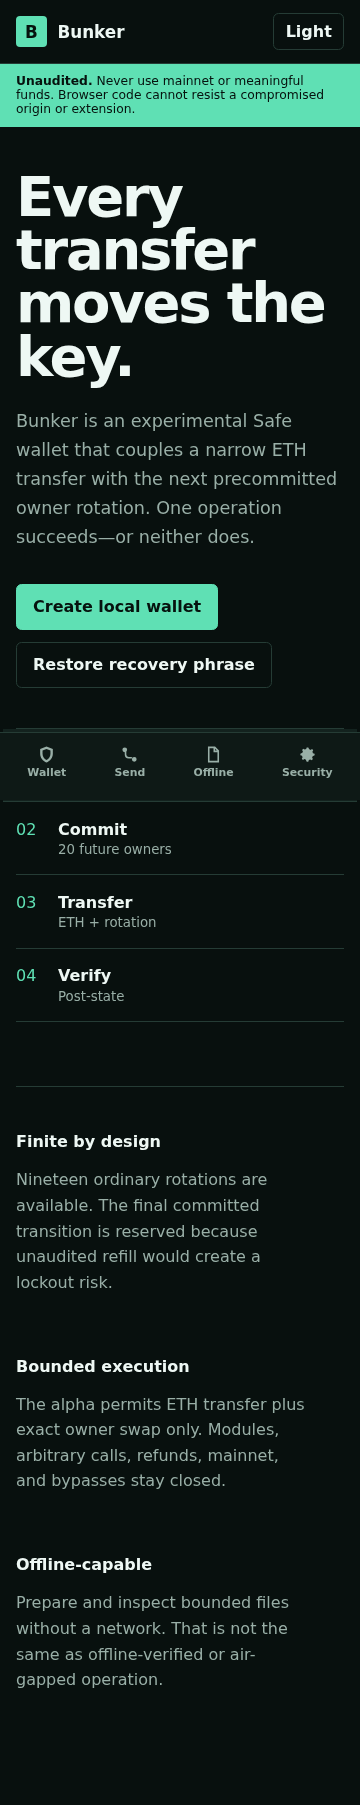
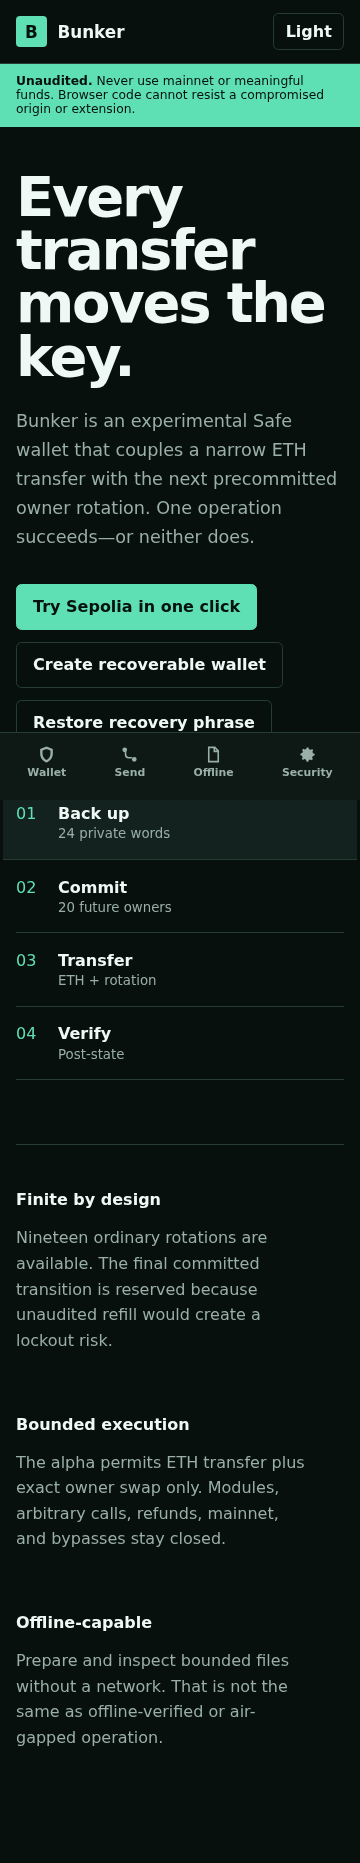
Add one-click Sepolia burner preview

diff --git a/apps/web/src/styles.css b/apps/web/src/styles.css
@@ -1,1 +1,1 @@
-:root{font-family:ui-sans-serif,-apple-system,BlinkMacSystemFont,"Segoe UI",sans-serif;font-synthesis:none;color-scheme:dark;background:#08100e}*{box-sizing:border-box}body{margin:0}button,input,textarea{font:inherit}.app{--bg:#08100e;--surface:#0e1916;--raised:#13221e;--line:#253c35;--text:#eef8f4;--muted:#99afa7;--accent:#5fe0b4;--focus:#5fe0b4;--ink:#06120e;min-height:100vh;background:var(--bg);color:var(--text);transition:background .2s,color .2s}.app.light{--bg:#f3f7f5;--surface:#fff;--raised:#e8f0ed;--line:#c5d3ce;--text:#11201b;--muted:#586b64;--accent:#087f63;--focus:#00634c;--ink:#fff}::selection{background:var(--accent);color:var(--ink)}button{border:1px solid var(--line);background:transparent;color:var(--text);padding:.78rem 1rem;border-radius:.35rem;cursor:pointer;font-weight:650}button:hover:not(:disabled){border-color:var(--accent)}button:focus-visible,input:focus-visible,textarea:focus-visible{outline:3px solid var(--focus);outline-offset:2px}button:disabled{cursor:not-allowed;opacity:.48}.primary{background:var(--accent);border-color:var(--accent);color:var(--ink)}header{height:74px;display:flex;align-items:center;padding:0 clamp(1rem,4vw,4rem);border-bottom:1px solid var(--line);gap:1.5rem}.wordmark{font-size:1.05rem;border:0;padding:0;display:flex;align-items:center;gap:.65rem}.wordmark span{display:grid;place-items:center;width:31px;height:31px;background:var(--accent);color:var(--ink);font-weight:900;border-radius:.25rem}.alpha{font-size:.76rem;text-transform:uppercase;letter-spacing:.12em;color:var(--muted)}.theme{margin-left:auto;padding:.5rem .7rem}.warning{background:var(--accent);color:var(--ink);padding:.65rem clamp(1rem,4vw,4rem);font-size:.88rem}.layout{display:grid;grid-template-columns:180px 1fr;min-height:calc(100vh - 180px)}nav{padding:2rem 1rem;border-right:1px solid var(--line);display:flex;flex-direction:column;gap:.3rem}nav button{border:0;display:flex;align-items:center;gap:.75rem;color:var(--muted);text-align:left}nav button.active{background:var(--raised);color:var(--text)}svg{width:19px;height:19px;fill:currentColor}main{padding:clamp(2rem,6vw,6.5rem);max-width:1250px;width:100%;margin:auto}.notice{border:1px solid var(--accent);padding:.9rem 1rem;margin:0 0 2rem;max-width:75ch}.hero{display:grid;grid-template-columns:minmax(0,1.25fr) minmax(270px,.75fr);gap:clamp(3rem,8vw,8rem);align-items:center;min-height:480px}.hero h1,.flow h1,.dashboard h1{font-size:clamp(2.7rem,6vw,5.7rem);line-height:.95;letter-spacing:-.04em;margin:.2rem 0 1.5rem;max-width:11ch}.hero p,.lead{color:var(--muted);font-size:1.1rem;line-height:1.65;max-width:65ch}.actions{display:flex;gap:.75rem;flex-wrap:wrap;margin-top:2rem}.route{border-top:1px solid var(--line)}.route div{display:grid;grid-template-columns:42px 1fr;border-bottom:1px solid var(--line);padding:1.1rem 0}.route span{grid-row:1/3;color:var(--accent);font-variant-numeric:tabular-nums}.route b{font-size:1rem}.route small{color:var(--muted);margin-top:.2rem}.route .done{background:var(--raised);margin:0 -.8rem;padding-left:.8rem;padding-right:.8rem}.plain-grid{display:grid;grid-template-columns:repeat(3,1fr);border-top:1px solid var(--line);margin-top:4rem}.plain-grid>div{padding:2rem 2rem 0 0}.plain-grid h2{font-size:1rem}.plain-grid p{color:var(--muted);line-height:1.6}.step{display:flex;gap:1rem;align-items:center;color:var(--muted);margin-bottom:2rem}.step span{border:1px solid var(--line);padding:.35rem .55rem;color:var(--accent);font-variant-numeric:tabular-nums}.flow{max-width:900px}.flow h1,.dashboard h1{font-size:clamp(2.5rem,5vw,4.8rem);max-width:14ch}.words{display:grid;grid-template-columns:repeat(4,1fr);gap:1px;background:var(--line);padding:1px;list-style:none;margin:2.5rem 0}.words li{background:var(--surface);padding:1rem;font-weight:700}.words span{color:var(--muted);display:block;font-size:.7rem;margin-bottom:.35rem}.check{display:flex;align-items:center;gap:.75rem;margin:1.5rem 0}.confirm{display:grid;grid-template-columns:repeat(3,1fr);gap:1rem;margin:2rem 0}label{display:grid;gap:.5rem;color:var(--muted);font-size:.85rem}input,textarea{background:var(--surface);color:var(--text);border:1px solid var(--line);border-radius:.25rem;padding:.85rem;width:100%}textarea{resize:vertical;font-family:ui-monospace,SFMono-Regular,Consolas,monospace;font-size:.82rem;line-height:1.5}.choice{display:grid;grid-template-columns:1fr 1fr;border:1px solid var(--line);margin:2rem 0}.choice>div{padding:2rem}.choice>div+div{border-left:1px solid var(--line)}.choice h2{margin-top:0}.choice h2 span{display:block;color:var(--accent);font-size:.7rem;text-transform:uppercase;letter-spacing:.1em;margin-top:.5rem}.choice p,.gate p,.unlock p{color:var(--muted);line-height:1.6}.choice button{margin-top:1.5rem}.identifier{border-top:1px solid var(--line);border-bottom:1px solid var(--line);padding:1.5rem 0}.identifier small{display:block;color:var(--muted);margin-bottom:.7rem}.identifier code{font-size:clamp(.9rem,2vw,1.4rem);overflow-wrap:anywhere;color:var(--accent)}.big-stat{display:flex;align-items:baseline;gap:1rem;margin:2.5rem 0}.big-stat strong{font-size:6rem;letter-spacing:-.07em}.big-stat span{color:var(--muted)}.state{display:grid;grid-template-columns:1fr 1fr;max-width:600px;margin-bottom:2rem}.state>*{padding:.8rem 0;border-bottom:1px solid var(--line)}.state span{color:var(--muted)}.blocked-list{display:grid;grid-template-columns:1fr 1fr;margin:2rem 0;border-top:1px solid var(--line)}.blocked-list p{margin:0;padding:1rem 0;border-bottom:1px solid var(--line)}.gates{margin:2rem 0}.gate{border-top:1px solid var(--line);padding:1.3rem 0}.gate>div{display:flex;justify-content:space-between;gap:1rem}.gate h2{font-size:1rem;margin:0}.gate span{color:var(--accent);font-size:.78rem;text-transform:uppercase;letter-spacing:.08em}.gate p{margin:.5rem 0 0;max-width:65ch}footer{border-top:1px solid var(--line);padding:1.5rem clamp(1rem,4vw,4rem);display:flex;justify-content:space-between;color:var(--muted);font-size:.78rem}.unlock{max-width:420px}@media(max-width:760px){header{height:64px}.alpha{display:none}.layout{display:block}nav{position:fixed;z-index:5;bottom:0;left:0;right:0;height:68px;background:var(--surface);border:0;border-top:1px solid var(--line);padding:.35rem;flex-direction:row;justify-content:space-around}nav button{font-size:.68rem;flex-direction:column;gap:.15rem;padding:.4rem}.warning{font-size:.77rem}.hero{grid-template-columns:1fr;gap:2.5rem;min-height:auto}.hero h1{font-size:3.5rem}.plain-grid{grid-template-columns:1fr}.words{grid-template-columns:repeat(3,1fr)}.confirm,.choice{grid-template-columns:1fr}.choice>div+div{border-left:0;border-top:1px solid var(--line)}main{padding:2.5rem 1rem 6rem}.big-stat strong{font-size:4.5rem}.blocked-list{grid-template-columns:1fr}footer{display:none}}@media(prefers-reduced-motion:reduce){*{scroll-behavior:auto!important;transition:none!important}}
+:root{font-family:ui-sans-serif,-apple-system,BlinkMacSystemFont,"Segoe UI",sans-serif;font-synthesis:none;color-scheme:dark;background:#08100e}*{box-sizing:border-box}body{margin:0}button,input,textarea{font:inherit}.app{--bg:#08100e;--surface:#0e1916;--raised:#13221e;--line:#253c35;--text:#eef8f4;--muted:#99afa7;--accent:#5fe0b4;--focus:#5fe0b4;--ink:#06120e;min-height:100vh;background:var(--bg);color:var(--text);transition:background .2s,color .2s}.app.light{--bg:#f3f7f5;--surface:#fff;--raised:#e8f0ed;--line:#c5d3ce;--text:#11201b;--muted:#586b64;--accent:#087f63;--focus:#00634c;--ink:#fff}::selection{background:var(--accent);color:var(--ink)}button{border:1px solid var(--line);background:transparent;color:var(--text);padding:.78rem 1rem;border-radius:.35rem;cursor:pointer;font-weight:650}button:hover:not(:disabled){border-color:var(--accent)}button:focus-visible,input:focus-visible,textarea:focus-visible{outline:3px solid var(--focus);outline-offset:2px}button:disabled{cursor:not-allowed;opacity:.48}.primary{background:var(--accent);border-color:var(--accent);color:var(--ink)}header{height:74px;display:flex;align-items:center;padding:0 clamp(1rem,4vw,4rem);border-bottom:1px solid var(--line);gap:1.5rem}.wordmark{font-size:1.05rem;border:0;padding:0;display:flex;align-items:center;gap:.65rem}.wordmark span{display:grid;place-items:center;width:31px;height:31px;background:var(--accent);color:var(--ink);font-weight:900;border-radius:.25rem}.alpha{font-size:.76rem;text-transform:uppercase;letter-spacing:.12em;color:var(--muted)}.theme{margin-left:auto;padding:.5rem .7rem}.warning{background:var(--accent);color:var(--ink);padding:.65rem clamp(1rem,4vw,4rem);font-size:.88rem}.layout{display:grid;grid-template-columns:180px 1fr;min-height:calc(100vh - 180px)}nav{padding:2rem 1rem;border-right:1px solid var(--line);display:flex;flex-direction:column;gap:.3rem}nav button{border:0;display:flex;align-items:center;gap:.75rem;color:var(--muted);text-align:left}nav button.active{background:var(--raised);color:var(--text)}svg{width:19px;height:19px;fill:currentColor}main{padding:clamp(2rem,6vw,6.5rem);max-width:1250px;width:100%;margin:auto}.notice{border:1px solid var(--accent);padding:.9rem 1rem;margin:0 0 2rem;max-width:75ch}.hero{display:grid;grid-template-columns:minmax(0,1.25fr) minmax(270px,.75fr);gap:clamp(3rem,8vw,8rem);align-items:center;min-height:480px}.hero h1,.flow h1,.dashboard h1{font-size:clamp(2.7rem,6vw,5.7rem);line-height:.95;letter-spacing:-.04em;margin:.2rem 0 1.5rem;max-width:11ch}.hero p,.lead{color:var(--muted);font-size:1.1rem;line-height:1.65;max-width:65ch}.actions{display:flex;gap:.75rem;flex-wrap:wrap;margin-top:2rem}.route{border-top:1px solid var(--line)}.route div{display:grid;grid-template-columns:42px 1fr;border-bottom:1px solid var(--line);padding:1.1rem 0}.route span{grid-row:1/3;color:var(--accent);font-variant-numeric:tabular-nums}.route b{font-size:1rem}.route small{color:var(--muted);margin-top:.2rem}.route .done{background:var(--raised);margin:0 -.8rem;padding-left:.8rem;padding-right:.8rem}.plain-grid{display:grid;grid-template-columns:repeat(3,1fr);border-top:1px solid var(--line);margin-top:4rem}.plain-grid>div{padding:2rem 2rem 0 0}.plain-grid h2{font-size:1rem}.plain-grid p{color:var(--muted);line-height:1.6}.step{display:flex;gap:1rem;align-items:center;color:var(--muted);margin-bottom:2rem}.step span{border:1px solid var(--line);padding:.35rem .55rem;color:var(--accent);font-variant-numeric:tabular-nums}.flow{max-width:900px}.flow h1,.dashboard h1{font-size:clamp(2.5rem,5vw,4.8rem);max-width:14ch}.words{display:grid;grid-template-columns:repeat(4,1fr);gap:1px;background:var(--line);padding:1px;list-style:none;margin:2.5rem 0}.words li{background:var(--surface);padding:1rem;font-weight:700}.words span{color:var(--muted);display:block;font-size:.7rem;margin-bottom:.35rem}.check{display:flex;align-items:center;gap:.75rem;margin:1.5rem 0}.confirm{display:grid;grid-template-columns:repeat(3,1fr);gap:1rem;margin:2rem 0}label{display:grid;gap:.5rem;color:var(--muted);font-size:.85rem}input,textarea{background:var(--surface);color:var(--text);border:1px solid var(--line);border-radius:.25rem;padding:.85rem;width:100%}textarea{resize:vertical;font-family:ui-monospace,SFMono-Regular,Consolas,monospace;font-size:.82rem;line-height:1.5}.choice{display:grid;grid-template-columns:1fr 1fr;border:1px solid var(--line);margin:2rem 0}.choice>div{padding:2rem}.choice>div+div{border-left:1px solid var(--line)}.choice h2{margin-top:0}.choice h2 span{display:block;color:var(--accent);font-size:.7rem;text-transform:uppercase;letter-spacing:.1em;margin-top:.5rem}.choice p,.gate p,.unlock p{color:var(--muted);line-height:1.6}.choice button{margin-top:1.5rem}.identifier{border-top:1px solid var(--line);border-bottom:1px solid var(--line);padding:1.5rem 0}.identifier small{display:block;color:var(--muted);margin-bottom:.7rem}.identifier code{font-size:clamp(.9rem,2vw,1.4rem);overflow-wrap:anywhere;color:var(--accent)}.big-stat{display:flex;align-items:baseline;gap:1rem;margin:2.5rem 0}.big-stat strong{font-size:6rem;letter-spacing:-.07em}.big-stat span{color:var(--muted)}.burner-balance strong{font-size:clamp(1.8rem,4vw,3.4rem);letter-spacing:-.03em}.fine{color:var(--muted);font-size:.82rem;line-height:1.55;max-width:65ch;margin-top:1.5rem}.state{display:grid;grid-template-columns:1fr 1fr;max-width:600px;margin-bottom:2rem}.state>*{padding:.8rem 0;border-bottom:1px solid var(--line)}.state span{color:var(--muted)}.blocked-list{display:grid;grid-template-columns:1fr 1fr;margin:2rem 0;border-top:1px solid var(--line)}.blocked-list p{margin:0;padding:1rem 0;border-bottom:1px solid var(--line)}.gates{margin:2rem 0}.gate{border-top:1px solid var(--line);padding:1.3rem 0}.gate>div{display:flex;justify-content:space-between;gap:1rem}.gate h2{font-size:1rem;margin:0}.gate span{color:var(--accent);font-size:.78rem;text-transform:uppercase;letter-spacing:.08em}.gate p{margin:.5rem 0 0;max-width:65ch}footer{border-top:1px solid var(--line);padding:1.5rem clamp(1rem,4vw,4rem);display:flex;justify-content:space-between;color:var(--muted);font-size:.78rem}.unlock{max-width:420px}@media(max-width:760px){header{height:64px}.alpha{display:none}.layout{display:block}nav{position:fixed;z-index:5;bottom:0;left:0;right:0;height:68px;background:var(--surface);border:0;border-top:1px solid var(--line);padding:.35rem;flex-direction:row;justify-content:space-around}nav button{font-size:.68rem;flex-direction:column;gap:.15rem;padding:.4rem}.warning{font-size:.77rem}.hero{grid-template-columns:1fr;gap:2.5rem;min-height:auto}.hero h1{font-size:3.5rem}.plain-grid{grid-template-columns:1fr}.words{grid-template-columns:repeat(3,1fr)}.confirm,.choice{grid-template-columns:1fr}.choice>div+div{border-left:0;border-top:1px solid var(--line)}main{padding:2.5rem 1rem 6rem}.big-stat strong{font-size:4.5rem}.blocked-list{grid-template-columns:1fr}footer{display:none}}@media(prefers-reduced-motion:reduce){*{scroll-behavior:auto!important;transition:none!important}}

diff --git a/apps/web/src/App.tsx b/apps/web/src/App.tsx
@@ -1,22 +1,26 @@
-import { createSignal, For, Show } from "solid-js";
+import { createSignal, For, onCleanup, Show } from "solid-js";
 import { mnemonicToAccount } from "viem/accounts";
-import { parseEther, type Address } from "viem";
+import { formatEther, parseEther, type Address } from "viem";
+import { clearEphemeralBurner, createEphemeralBurner, readSepoliaBalance, SEPOLIA_FAUCET } from "./burner";
 import { newMnemonic, validMnemonic, encryptMnemonic, decryptMnemonic, type EncryptedVault } from "@bunker/vault";
 import { parseEnvelope, sealEnvelope, serializeEnvelope } from "@bunker/offline";
 import { ZERO_ADDRESS } from "@bunker/core";
 
-type View="welcome"|"create"|"confirm"|"vault"|"home"|"send"|"offline"|"settings";
+type View="welcome"|"burner"|"create"|"confirm"|"vault"|"home"|"send"|"offline"|"settings";
 let secretMnemonic:string|undefined;
 const wipe=()=>{secretMnemonic=undefined};
 const short=(v:string)=>`${v.slice(0,8)}…${v.slice(-6)}`;
 function download(name:string,data:string){const url=URL.createObjectURL(new Blob([data],{type:"application/json"}));const a=document.createElement("a");a.href=url;a.download=name;a.click();URL.revokeObjectURL(url)}
 const Icon=(p:{name:"shield"|"route"|"file"|"gear"})=><svg viewBox="0 0 24 24" aria-hidden="true"><path d={p.name==="shield"?"M12 2 20 5v6c0 5-3.4 9.4-8 11-4.6-1.6-8-6-8-11V5l8-3Zm0 3.2L7 7v4c0 3.5 2 6.6 5 8 3-1.4 5-4.5 5-8V7l-5-1.8Z":p.name==="route"?"M6 3a3 3 0 1 0 0 6 3 3 0 0 0 0-6Zm12 12a3 3 0 1 0 0 6 3 3 0 0 0 0-6ZM6 7v5a5 5 0 0 0 5 5h4v-2h-4a3 3 0 0 1-3-3V7H6Z":p.name==="file"?"M5 2h9l5 5v15H5V2Zm2 2v16h10V9h-5V4H7Zm7 .8V7h2.2L14 4.8Z":"M12 8a4 4 0 1 0 0 8 4 4 0 0 0 0-8Zm0 2a2 2 0 1 1 0 4 2 2 0 0 1 0-4Zm9 3v-2l-2.1-.7a7 7 0 0 0-.7-1.7l1-2-1.4-1.4-2 1a7 7 0 0 0-1.7-.7L13 3h-2l-.7 2.1a7 7 0 0 0-1.7.7l-2-1-1.4 1.4 1 2a7 7 0 0 0-.7 1.7L3 11v2l2.1.7c.2.6.4 1.2.7 1.7l-1 2 1.4 1.4 2-1c.5.3 1.1.5 1.7.7L11 21h2l.7-2.1c.6-.2 1.2-.4 1.7-.7l2 1 1.4-1.4-1-2c.3-.5.5-1.1.7-1.7L21 13Z"}/></svg>;
 export default function App(){
- const [view,setView]=createSignal<View>(localStorage.getItem("bunker-vault")?"home":"welcome"),[theme,setTheme]=createSignal<"dark"|"light">((localStorage.getItem("bunker-theme") as "dark"|"light")||"dark"),[message,setMessage]=createSignal(""),[owner,setOwner]=createSignal<Address|undefined>(),[remaining]=createSignal(19),[backupConfirmed,setBackupConfirmed]=createSignal(false);
+ const [view,setView]=createSignal<View>(localStorage.getItem("bunker-vault")?"home":"welcome"),[theme,setTheme]=createSignal<"dark"|"light">((localStorage.getItem("bunker-theme") as "dark"|"light")||"dark"),[message,setMessage]=createSignal(""),[owner,setOwner]=createSignal<Address|undefined>(),[burnerAddress,setBurnerAddress]=createSignal<Address>(),[burnerBalance,setBurnerBalance]=createSignal<string>("Waiting for faucet"),[burnerCopy,setBurnerCopy]=createSignal("Copying address…"),[remaining]=createSignal(19),[backupConfirmed,setBackupConfirmed]=createSignal(false);
  let phraseEl!:HTMLOListElement; let confirmInputs:HTMLInputElement[]=[]; let password!:HTMLInputElement; let restore!:HTMLTextAreaElement; let offlineInput!:HTMLTextAreaElement;
  const go=(v:View)=>{setMessage("");setView(v)};
  const derive=(m:string)=>{const a=mnemonicToAccount(m,{path:"m/44'/60'/7331'/0/0"});setOwner(a.address)};
  const create=()=>{secretMnemonic=newMnemonic();queueMicrotask(()=>{phraseEl.innerHTML=secretMnemonic!.split(" ").map((w,i)=>`<li><span>${i+1}</span>${w}</li>`).join("")});go("create")};
+ const refreshBurner=async()=>{const address=burnerAddress();if(!address)return;setBurnerBalance("Checking Sepolia…");try{setBurnerBalance(`${Number(formatEther(await readSepoliaBalance(address))).toFixed(4)} Sepolia ETH`)}catch{setBurnerBalance("Balance unavailable — try again")}};
+ const openFaucet=()=>{const address=burnerAddress()??createEphemeralBurner();setBurnerAddress(address);setBurnerBalance("Waiting for faucet");setBurnerCopy("Copying address…");const popup=window.open(SEPOLIA_FAUCET,"_blank","noopener,noreferrer");go("burner");if(!popup)setMessage("The faucet popup was blocked. Allow popups, then use Open Sepolia faucet.");if(navigator.clipboard)void navigator.clipboard.writeText(address).then(()=>setBurnerCopy("Copied to clipboard")).catch(()=>setBurnerCopy("Copy unavailable — select the address"));else setBurnerCopy("Copy unavailable — select the address")};
+ onCleanup(clearEphemeralBurner);
  const confirmBackup=()=>{const words=secretMnemonic?.split(" ");if(!words)return; if(confirmInputs.map(x=>x.value.trim().toLowerCase()).join("|")!==[2,8,17].map(i=>words[i]).join("|")){setMessage("Those words do not match. Check the recovery phrase and try again.");return}go("vault")};
  const finishVault=async(persist:boolean)=>{if(!secretMnemonic)return;if(persist){if(password.value.length<12){setMessage("Use a password of at least 12 characters.");return}try{const vault=await encryptMnemonic(secretMnemonic,password.value,{chainId:31337,derivation:"m/44'/60'/7331'/0/index",sequenceVersion:1});localStorage.setItem("bunker-vault",JSON.stringify(vault));derive(secretMnemonic);wipe();go("home")}catch(e){setMessage(e instanceof Error?e.message:"Vault creation failed.")}}else{derive(secretMnemonic);go("home")}};
  const restorePhrase=()=>{const m=restore.value.trim();if(!validMnemonic(m)){setMessage("Enter a valid 24-word BIP-39 recovery phrase.");return}secretMnemonic=m;derive(m);go("vault")};
@@ -26,7 +30,8 @@ export default function App(){
  const toggle=()=>{const t=theme()==="dark"?"light":"dark";setTheme(t);localStorage.setItem("bunker-theme",t)};
  return <div class={`app ${theme()}`}><header><button class="wordmark" onClick={()=>go("welcome")}><span>B</span>Bunker</button><div class="alpha">Local / testnet alpha</div><button class="theme" onClick={toggle} aria-label="Toggle theme">{theme()==="dark"?"Light":"Dark"}</button></header><div class="warning"><b>Unaudited.</b> Never use mainnet or meaningful funds. Browser code cannot resist a compromised origin or extension.</div><div class="layout"><nav aria-label="Wallet sections"><button classList={{active:view()==="home"}} aria-current={view()==="home"?"page":undefined} onClick={()=>go("home")}><Icon name="shield"/>Wallet</button><button classList={{active:view()==="send"}} aria-current={view()==="send"?"page":undefined} onClick={()=>go("send")}><Icon name="route"/>Send</button><button classList={{active:view()==="offline"}} aria-current={view()==="offline"?"page":undefined} onClick={()=>go("offline")}><Icon name="file"/>Offline</button><button classList={{active:view()==="settings"}} aria-current={view()==="settings"?"page":undefined} onClick={()=>go("settings")}><Icon name="gear"/>Security</button></nav><main>
  <Show when={message()}><p class="notice" role="status">{message()}</p></Show>
- <Show when={view()==="welcome"}><section class="hero"><div><h1>Every transfer moves the key.</h1><p>Bunker is an experimental Safe wallet that couples a narrow ETH transfer with the next precommitted owner rotation. One operation succeeds—or neither does.</p><div class="actions"><button class="primary" onClick={create}>Create local wallet</button><button onClick={()=>go("confirm")}>Restore recovery phrase</button></div></div><div class="route"><div class="done"><span>01</span><b>Back up</b><small>24 private words</small></div><div><span>02</span><b>Commit</b><small>20 future owners</small></div><div><span>03</span><b>Transfer</b><small>ETH + rotation</small></div><div><span>04</span><b>Verify</b><small>Post-state</small></div></div></section><section class="plain-grid"><div><h2>Finite by design</h2><p>Nineteen ordinary rotations are available. The final committed transition is reserved because unaudited refill would create a lockout risk.</p></div><div><h2>Bounded execution</h2><p>The alpha permits ETH transfer plus exact owner swap only. Modules, arbitrary calls, refunds, mainnet, and bypasses stay closed.</p></div><div><h2>Offline-capable</h2><p>Prepare and inspect bounded files without a network. That is not the same as offline-verified or air-gapped operation.</p></div></section></Show>
+ <Show when={view()==="welcome"}><section class="hero"><div><h1>Every transfer moves the key.</h1><p>Bunker is an experimental Safe wallet that couples a narrow ETH transfer with the next precommitted owner rotation. One operation succeeds—or neither does.</p><div class="actions"><button class="primary" onClick={openFaucet}>Try Sepolia in one click</button><button onClick={create}>Create recoverable wallet</button><button onClick={()=>go("confirm")}>Restore recovery phrase</button></div></div><div class="route"><div class="done"><span>01</span><b>Back up</b><small>24 private words</small></div><div><span>02</span><b>Commit</b><small>20 future owners</small></div><div><span>03</span><b>Transfer</b><small>ETH + rotation</small></div><div><span>04</span><b>Verify</b><small>Post-state</small></div></div></section><section class="plain-grid"><div><h2>Finite by design</h2><p>Nineteen ordinary rotations are available. The final committed transition is reserved because unaudited refill would create a lockout risk.</p></div><div><h2>Bounded execution</h2><p>The alpha permits ETH transfer plus exact owner swap only. Modules, arbitrary calls, refunds, mainnet, and bypasses stay closed.</p></div><div><h2>Offline-capable</h2><p>Prepare and inspect bounded files without a network. That is not the same as offline-verified or air-gapped operation.</p></div></section></Show>
+ <Show when={view()==="burner"}><section class="flow burner"><Step n="Sepolia" title="Ephemeral burner ready"/><h1>Fund it, then explore.</h1><p class="lead">A fresh address was created only in this tab and copied for the Google Cloud faucet. It disappears on refresh. Never send mainnet or meaningful funds.</p><div class="identifier"><small>Sepolia burner address · {burnerCopy()}</small><code>{burnerAddress()}</code></div><div class="big-stat burner-balance"><strong>{burnerBalance()}</strong></div><div class="actions"><button class="primary" onClick={openFaucet}>Open Sepolia faucet</button><button onClick={refreshBurner}>Refresh balance</button></div><p class="fine">This burner is not a deployed Safe and cannot sign or send in this alpha. The faucet opens on Google Cloud and may require sign-in or verification.</p></section></Show>
  <Show when={view()==="create"}><section class="flow"><Step n="1" title="Record all 24 words"/><h1>Your recovery phrase</h1><p class="lead">Write these words on paper in order. Anyone who gets them can control every derived owner. This page cannot guarantee erasure from browser memory.</p><ol class="words" ref={phraseEl}/><label class="check"><input type="checkbox" checked={backupConfirmed()} onChange={e=>setBackupConfirmed(e.currentTarget.checked)}/> I recorded the phrase away from this browser.</label><button class="primary" disabled={!backupConfirmed()} onClick={()=>go("confirm")}>Verify recovery</button></section></Show>
  <Show when={view()==="confirm"}><section class="flow"><Step n="2" title={secretMnemonic?"Confirm your backup":"Restore from words"}/><Show when={secretMnemonic} fallback={<><h1>Restore locally</h1><p class="lead">The phrase stays in memory for this session unless you explicitly create an encrypted vault.</p><textarea ref={restore} rows="5" spellcheck={false} autocomplete="off" placeholder="Enter 24 words"/><button class="primary" onClick={restorePhrase}>Validate recovery phrase</button></>}><h1>Prove the backup is complete</h1><p class="lead">Enter words 3, 9, and 18. No wallet is created until they match.</p><div class="confirm"><For each={[3,9,18]}>{(n,i)=><label>Word {n}<input ref={el=>confirmInputs[i()]=el} autocomplete="off" spellcheck={false}/></label>}</For></div><button class="primary" onClick={confirmBackup}>Continue to storage</button></Show></section></Show>
  <Show when={view()==="vault"}><section class="flow"><Step n="3" title="Choose local storage"/><h1>Protect this browser session</h1><div class="choice"><div><h2>Encrypted local vault <span>Recommended</span></h2><p>Argon2id derives a key; AES-256-GCM authenticates encrypted recovery data. A hostile page can still steal it while unlocked.</p><label>Password · 12 characters minimum<input ref={password} type="password" minlength="12" autocomplete="new-password"/></label><button class="primary" onClick={()=>finishVault(true)}>Encrypt and continue</button></div><div><h2>Seed phrase only</h2><p>Nothing is persisted. You must re-enter the phrase after reload. Browser memory cannot be reliably zeroized.</p><button onClick={()=>finishVault(false)}>Continue without saving</button></div></div></section></Show>

diff --git a/apps/web/src/burner.ts b/apps/web/src/burner.ts
@@ -1,0 +1,25 @@
+import { generatePrivateKey, privateKeyToAccount } from "viem/accounts";
+import type { Address, Hex } from "viem";
+
+export const SEPOLIA_CHAIN_ID = 11155111;
+export const SEPOLIA_RPC = "https://rpc.sepolia.org";
+export const SEPOLIA_FAUCET = "https://cloud.google.com/application/web3/faucet/ethereum/sepolia";
+let privateKey: Hex | undefined;
+
+export function createEphemeralBurner(): Address {
+  privateKey = generatePrivateKey();
+  return privateKeyToAccount(privateKey).address;
+}
+export function clearEphemeralBurner(): void { privateKey = undefined; }
+export function hasEphemeralBurner(): boolean { return privateKey !== undefined; }
+export async function readSepoliaBalance(address: Address): Promise<bigint> {
+  const response = await fetch(SEPOLIA_RPC, { method: "POST", headers: { "content-type": "application/json" }, body: JSON.stringify({ jsonrpc: "2.0", id: 1, method: "eth_getBalance", params: [address, "latest"] }), signal: AbortSignal.timeout(8_000) });
+  if (!response.ok) throw new Error("Sepolia RPC is unavailable.");
+  const text = await response.text();
+  if (text.length > 4_096) throw new Error("Sepolia returned an oversized response.");
+  const body = JSON.parse(text) as { result?: string; error?: unknown };
+  if (body.error || !/^0x(?:0|[1-9a-f][0-9a-f]*)$/i.test(body.result ?? "")) throw new Error("Sepolia returned an invalid balance.");
+  const balance = BigInt(body.result!);
+  if (balance >= 1n << 256n) throw new Error("Sepolia returned an invalid balance.");
+  return balance;
+}

diff --git a/tests/e2e/web.e2e.ts b/tests/e2e/web.e2e.ts
@@ -18,9 +18,22 @@ for (const [name, width, height] of views) test(`${name} renders without overflo
   await page.screenshot({ path: `.impeccable/review/${name}-light.png`, fullPage: true });
 });
 
+test("one click creates a memory-only Sepolia burner and opens the faucet", async ({ page }) => {
+  await page.goto("/");
+  const popupPromise = page.waitForEvent("popup");
+  await page.getByRole("button", { name: "Try Sepolia in one click" }).click();
+  const popup = await popupPromise;
+  await expect(page.getByRole("heading", { name: "Fund it, then explore." })).toBeVisible();
+  await expect(page.locator(".identifier code")).toHaveText(/^0x[0-9a-fA-F]{40}$/);
+  expect(await page.evaluate(() => Object.keys(localStorage).every(key => !key.includes("burner")))).toBe(true);
+  await page.screenshot({ path: ".impeccable/review/burner-dark.png", fullPage: true });
+  expect(popup.url()).toContain("cloud.google.com/application/web3/faucet/ethereum/sepolia");
+  await popup.close();
+});
+
 test("backup acknowledgement gates recovery confirmation", async ({ page }) => {
   await page.goto("/");
-  await page.getByRole("button", { name: "Create local wallet" }).click();
+  await page.getByRole("button", { name: "Create recoverable wallet" }).click();
   const next = page.getByRole("button", { name: "Verify recovery" });
   await expect(next).toBeDisabled();
   await page.getByRole("checkbox").check();

diff --git a/apps/web/src/burner.test.ts b/apps/web/src/burner.test.ts
@@ -1,0 +1,6 @@
+import { afterEach, expect, test } from "bun:test";
+import { clearEphemeralBurner, createEphemeralBurner, hasEphemeralBurner, readSepoliaBalance, SEPOLIA_CHAIN_ID, SEPOLIA_FAUCET } from "./burner";
+afterEach(clearEphemeralBurner);
+test("creates a memory-only burner address and clears it", () => { expect(SEPOLIA_CHAIN_ID).toBe(11155111); const address=createEphemeralBurner(); expect(address).toMatch(/^0x[0-9a-fA-F]{40}$/); expect(hasEphemeralBurner()).toBe(true); clearEphemeralBurner(); expect(hasEphemeralBurner()).toBe(false); });
+test("uses the allowlisted Google Cloud Sepolia faucet", () => { const url=new URL(SEPOLIA_FAUCET); expect(url.protocol).toBe("https:"); expect(url.hostname).toBe("cloud.google.com"); });
+test("bounds and validates Sepolia balance responses", async () => { const original=globalThis.fetch; const mock=(body:string):typeof fetch=>Object.assign(async (..._args:Parameters<typeof fetch>)=>new Response(body),{preconnect:original.preconnect}); try { globalThis.fetch=mock('{"jsonrpc":"2.0","id":1,"result":"0x2a"}'); expect(await readSepoliaBalance("0x0000000000000000000000000000000000000001")).toBe(42n); globalThis.fetch=mock('{"result":"0x00"}'); expect(readSepoliaBalance("0x0000000000000000000000000000000000000001")).rejects.toThrow("invalid balance"); } finally { globalThis.fetch=original; } });

diff --git a/apps/web/public/sw.js b/apps/web/public/sw.js
@@ -1,1 +1,1 @@
-const CACHE="bunker-alpha-v1";self.addEventListener("install",e=>e.waitUntil(caches.open(CACHE).then(c=>c.addAll(["/","/manifest.webmanifest","/icon.svg"]))));self.addEventListener("activate",e=>e.waitUntil(caches.keys().then(keys=>Promise.all(keys.filter(k=>k!==CACHE).map(k=>caches.delete(k))))));self.addEventListener("fetch",e=>{if(e.request.method==="GET"&&new URL(e.request.url).origin===location.origin)e.respondWith(fetch(e.request).then(r=>{const copy=r.clone();caches.open(CACHE).then(c=>c.put(e.request,copy));return r}).catch(()=>caches.match(e.request))) });
+const CACHE="bunker-alpha-v2";self.addEventListener("install",e=>e.waitUntil(caches.open(CACHE).then(c=>c.addAll(["/","/manifest.webmanifest","/icon.svg"]))));self.addEventListener("activate",e=>e.waitUntil(caches.keys().then(keys=>Promise.all(keys.filter(k=>k!==CACHE).map(k=>caches.delete(k))))));self.addEventListener("fetch",e=>{if(e.request.method==="GET"&&new URL(e.request.url).origin===location.origin)e.respondWith(fetch(e.request).then(r=>{const copy=r.clone();caches.open(CACHE).then(c=>c.put(e.request,copy));return r}).catch(()=>caches.match(e.request))) });

diff --git a/README.md b/README.md
@@ -21,6 +21,7 @@ sequenceDiagram
 
 Working today:
 
+- one-click, memory-only Sepolia burner creation with a Google Cloud faucet handoff and balance refresh;
 - polished offline-capable SolidJS PWA;
 - 24-word BIP-39 creation and recovery confirmation;
 - optional Argon2id + AES-256-GCM encrypted local vault;
@@ -57,6 +58,8 @@ flowchart TB
 See [architecture](docs/architecture.md), [threat model](docs/threat-model.md), [security decisions](docs/security-decisions.md), and [security status](SECURITY_STATUS.md).
 
 ## Storage choices
+
+**Quick Sepolia burner** creates a random key in the current tab, copies its address, and opens the Google Cloud faucet. It is lost on refresh, is not backed up, and cannot sign or send in this alpha.
 
 **Encrypted local vault** derives a 256-bit key with Argon2id and uses a fresh AES-GCM nonce. **Seed phrase only** persists nothing and requires re-entry after reload. Neither mode protects an unlocked phrase from compromised page code, extensions, the browser, or OS. JavaScript cannot guarantee secure erasure.
 

diff --git a/docs/visual-qa.md b/docs/visual-qa.md
@@ -1,6 +1,6 @@
 # Visual QA
 
-Playwright rendered the live SolidJS application at 1440×900, 1920×1080, 768×1024, 390×844, and 360×800 in dark and light themes. All ten captures are stored in `.impeccable/review/`.
+Playwright rendered the live SolidJS application at 1440×900, 1920×1080, 768×1024, 390×844, and 360×800 in dark and light themes. Theme captures plus the Sepolia burner flow are stored in `.impeccable/review/`.
 
 Verified:
 
@@ -8,6 +8,7 @@ Verified:
 - primary content and unaudited-use warning remain visible;
 - mobile navigation remains reachable;
 - both themes render with explicit focus and selection colors;
+- one-click burner creation opens the allowlisted Sepolia faucet without persisting a burner key;
 - recovery confirmation remains disabled until the backup acknowledgement is checked;
 - the mechanical Impeccable detector returned no findings.
 

diff --git a/SECURITY_STATUS.md b/SECURITY_STATUS.md
@@ -9,6 +9,7 @@
 - 24-word BIP-39 generation and authenticated Argon2id/AES-GCM local vaults.
 - Runtime chain policy accepts only local Anvil `31337` and Sepolia `11155111`.
 - Static web UI and loopback-only validation relay with no signing key.
+- Sepolia-only ephemeral burner generation, faucet handoff, and read-only balance lookup. Burner keys remain memory-only and cannot sign or send in this alpha.
 
 ## Disabled
 
